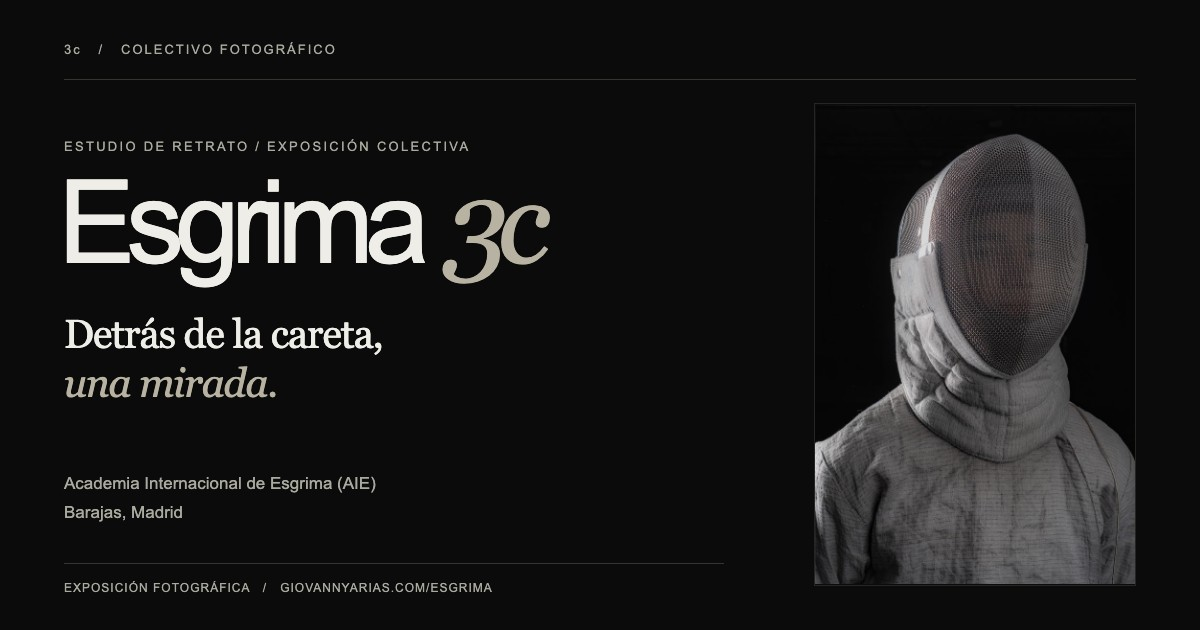
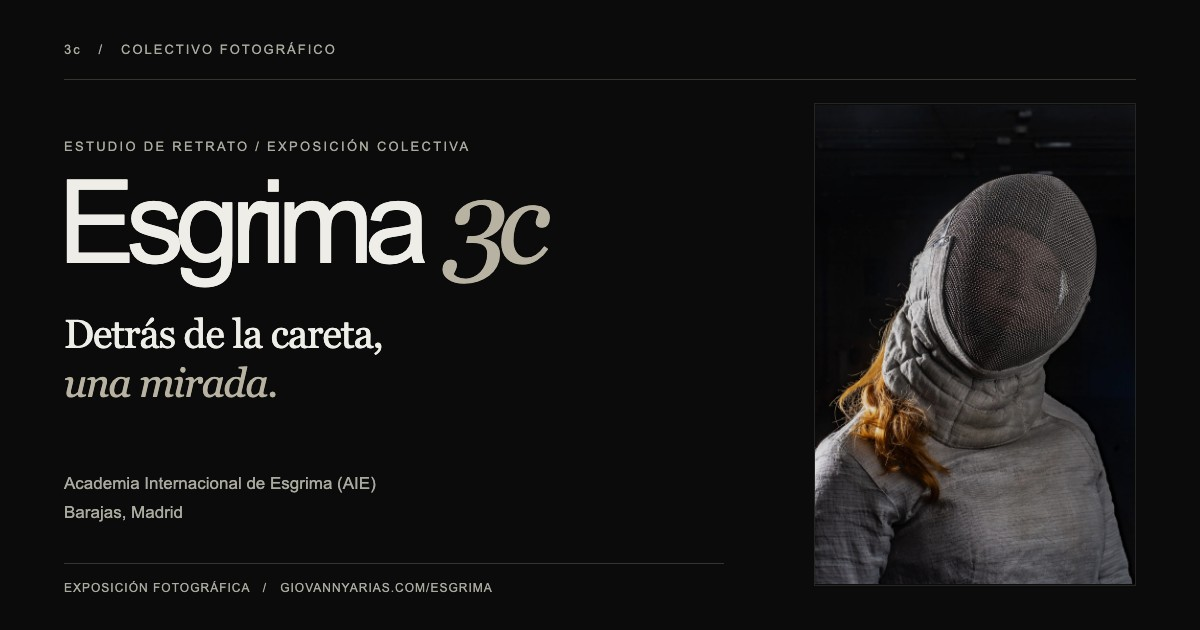
Refactor code structure for improved readability and maintainability

Changed region(s): [[0.6783, 0.2111, 0.9558, 0.9349]]

diff --git a/esgrima.html b/esgrima.html
@@ -13,8 +13,8 @@
     <meta property="og:title" content="Esgrima 3c · Exposición fotográfica" />
     <meta property="og:description" content="Retratos de estudiantes de la Academia Internacional de Esgrima (AIE), en Barajas. Proyecto del grupo 3c de PIC.A Escuela Internacional de Fotografía Alcobendas." />
     <meta property="og:url" content="https://giovannyarias.com/esgrima" />
-    <meta property="og:image" content="https://giovannyarias.com/esgrima/social-cover.jpg" />
-    <meta property="og:image:secure_url" content="https://giovannyarias.com/esgrima/social-cover.jpg" />
+    <meta property="og:image" content="https://giovannyarias.com/esgrima/social-cover.jpg?v=DSC9117" />
+    <meta property="og:image:secure_url" content="https://giovannyarias.com/esgrima/social-cover.jpg?v=DSC9117" />
     <meta property="og:image:type" content="image/jpeg" />
     <meta property="og:image:width" content="1200" />
     <meta property="og:image:height" content="630" />
@@ -23,7 +23,7 @@
     <meta name="twitter:card" content="summary_large_image" />
     <meta name="twitter:title" content="Esgrima 3c · Exposición fotográfica" />
     <meta name="twitter:description" content="Retratos de estudiantes de la Academia Internacional de Esgrima (AIE), en Barajas. Proyecto del grupo 3c de PIC.A Escuela Internacional de Fotografía Alcobendas." />
-    <meta name="twitter:image" content="https://giovannyarias.com/esgrima/social-cover.jpg" />
+    <meta name="twitter:image" content="https://giovannyarias.com/esgrima/social-cover.jpg?v=DSC9117" />
     <meta name="twitter:image:alt" content="Esgrima 3c. Detrás de la careta, una mirada. Retrato de un estudiante con careta de esgrima sobre fondo negro." />
 
     <!-- Google tag (gtag.js) -->

diff --git a/src/pages/Esgrima.tsx b/src/pages/Esgrima.tsx
@@ -21,9 +21,13 @@ const photos = [
   '_DSC8129.jpg',
 ].map((filename) => `/esgrima/photos/${filename}`);
 
-const maskPhotos = ['_DSC8889.jpg', '_DSC8906.jpg', '_DSC8893.jpg', '_DSC8898.jpg', '_DSC8908.jpg'].map(
-  (filename) => `/esgrima/photos/mask/${filename}`,
-);
+const maskPhotos = Object.values(
+  import.meta.glob<string>('/public/esgrima/photos/mask/*.{jpg,jpeg,png,webp,avif,JPG,JPEG,PNG,WEBP,AVIF}', {
+    eager: true,
+    query: '?url',
+    import: 'default',
+  }),
+).sort();
 
 const photographers = [
   'Ángela Cuesta',
@@ -246,7 +250,7 @@ export default function Esgrima() {
                 <figure className="esgrima__intro-figure">
                   <div className="esgrima__intro-image-wrap">
                     <img
-                      src={maskPhotos[0]}
+                      src="/esgrima/photos/mask/_DSC9117.jpg"
                       alt="Retrato de un estudiante de esgrima con careta, iluminado sobre fondo negro"
                       width="667"
                       height="1000"
